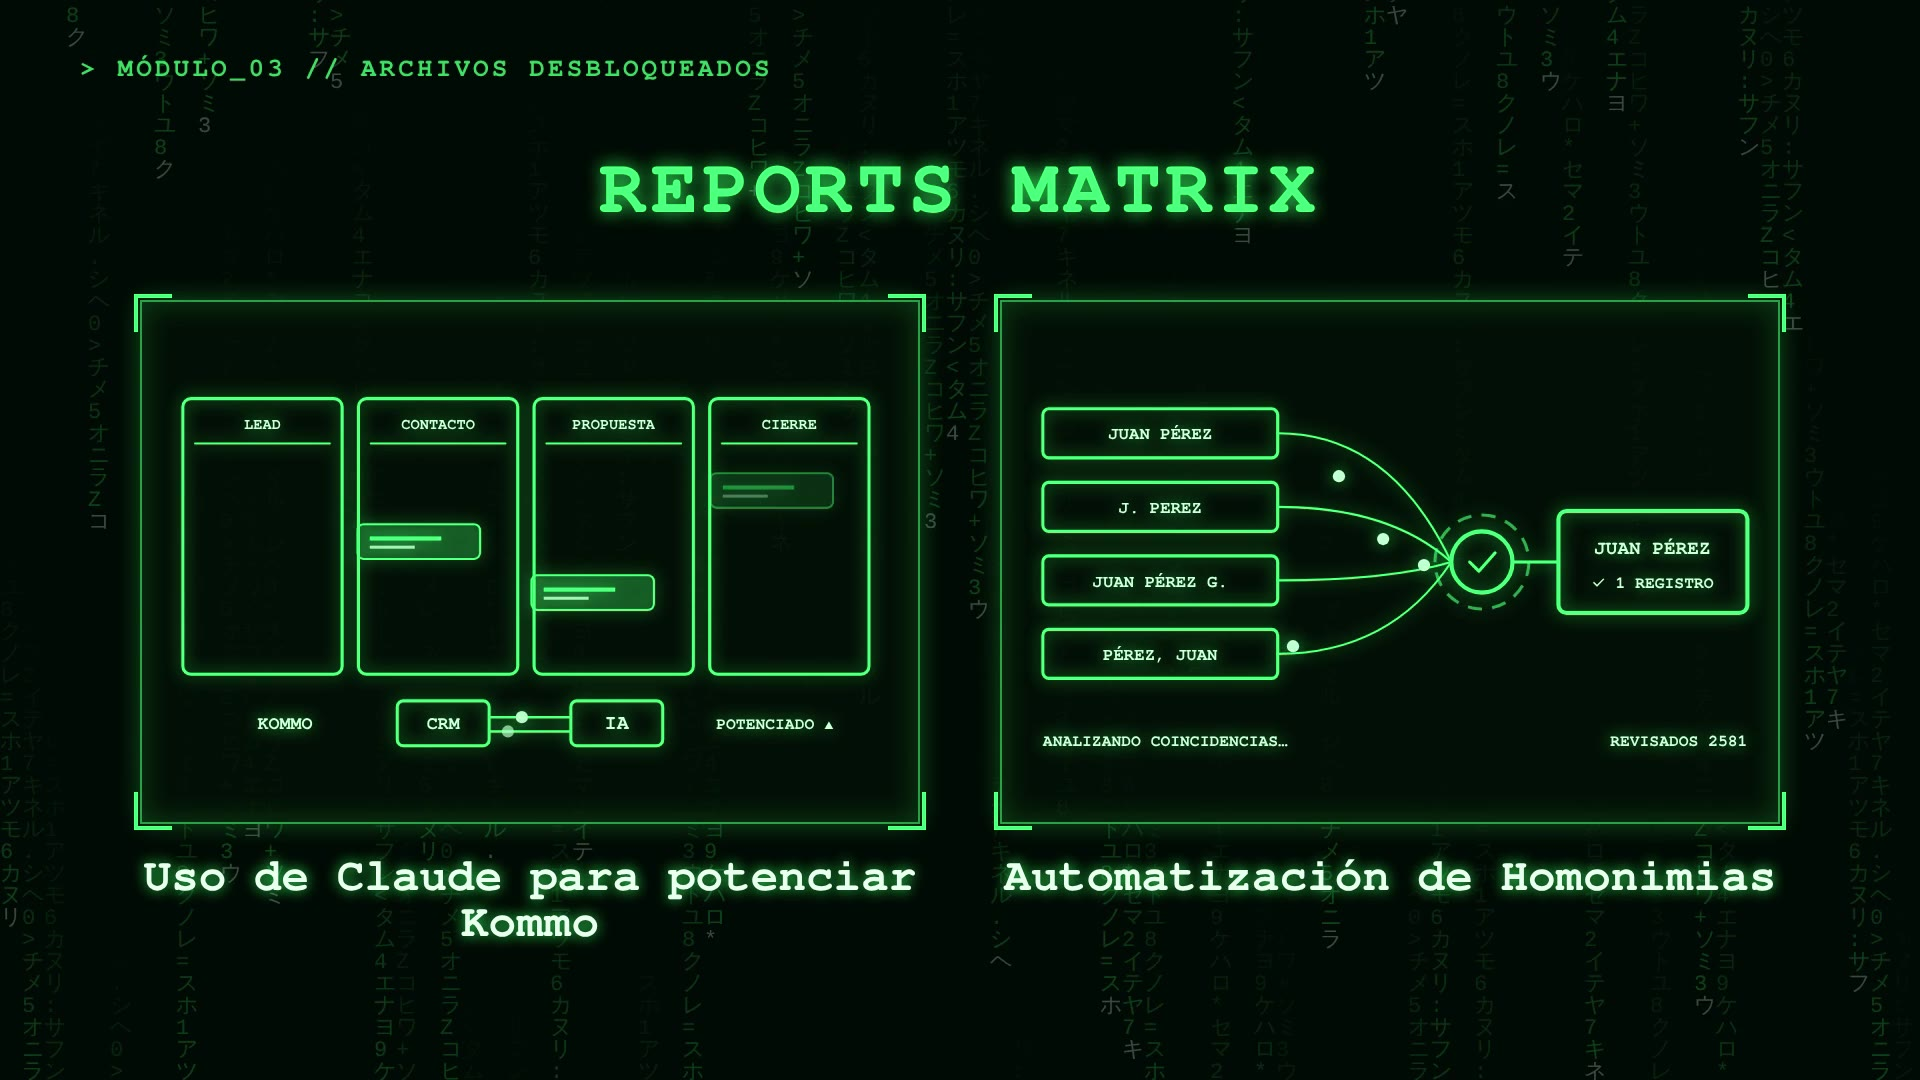
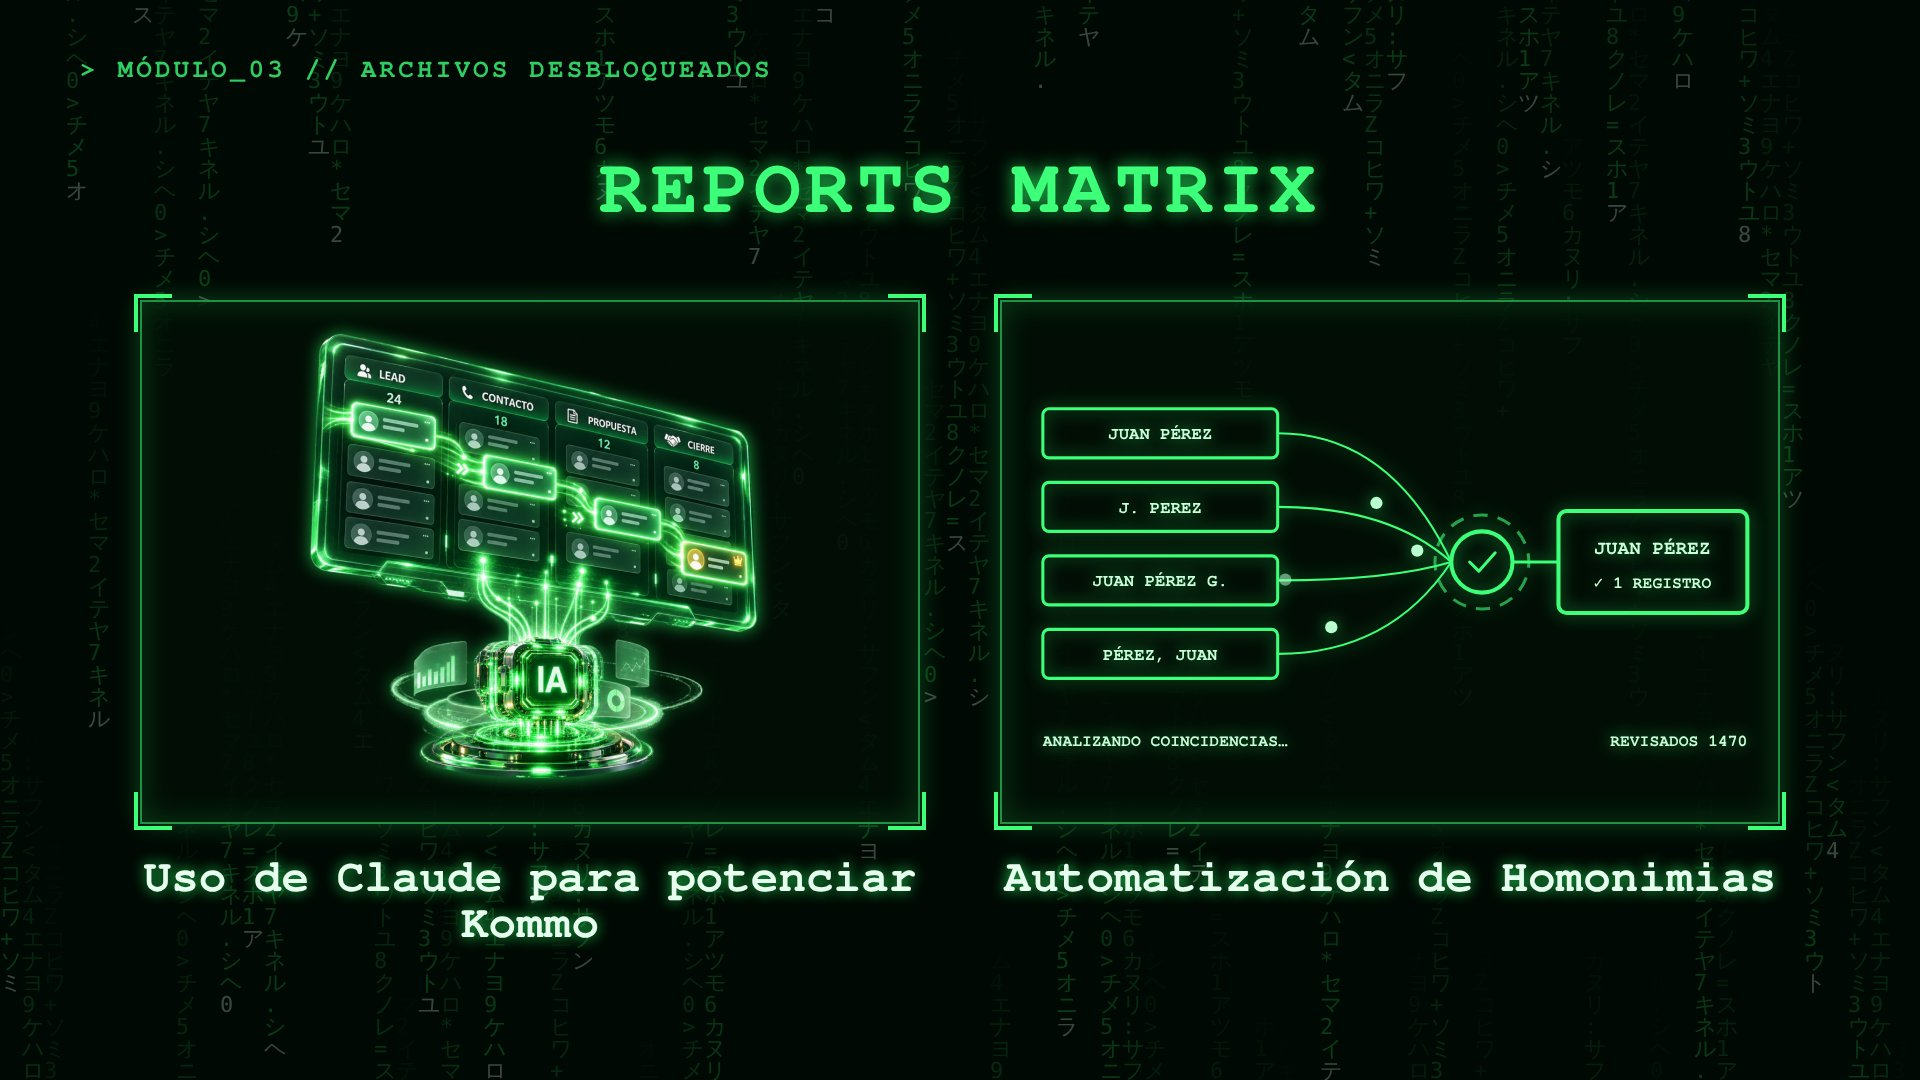
Matrix PPT3: imagen para Claude + Kommo
Claude-Session: https://claude.ai/code/session_01TNESLuQNUwZZ73yDMFRmWn

diff --git a/videos/matrix-2026/compositions/m3-ppt.html b/videos/matrix-2026/compositions/m3-ppt.html
@@ -32,7 +32,7 @@
   <div id="mod" class="abs"></div>
   <div id="h" class="abs"></div>
   <div id="c1" class="abs card">
-    <div class="marco"><svg class="ico" viewBox="0 0 760 440"><rect stroke="#3dff7a" fill="none" stroke-linecap="round" stroke-linejoin="round" pathLength="1" class="tr" stroke-width="3" x="40" y="60" width="156" height="270" rx="8"/><text font-family="Maquina, monospace" fill="#c8ffd8" font-size="15" x="118" y="90" text-anchor="middle" class="fx" data-t="1.8">LEAD</text><path stroke="#3dff7a" fill="none" stroke-linecap="round" stroke-linejoin="round" pathLength="1" class="tr" stroke-width="2" d="M52 104 H184"/><rect stroke="#3dff7a" fill="none" stroke-linecap="round" stroke-linejoin="round" pathLength="1" class="tr" stroke-width="3" x="212" y="60" width="156" height="270" rx="8"/><text font-family="Maquina, monospace" fill="#c8ffd8" font-size="15" x="290" y="90" text-anchor="middle" class="fx" data-t="1.92">CONTACTO</text><path stroke="#3dff7a" fill="none" stroke-linecap="round" stroke-linejoin="round" pathLength="1" class="tr" stroke-width="2" d="M224 104 H356"/><rect stroke="#3dff7a" fill="none" stroke-linecap="round" stroke-linejoin="round" pathLength="1" class="tr" stroke-width="3" x="384" y="60" width="156" height="270" rx="8"/><text font-family="Maquina, monospace" fill="#c8ffd8" font-size="15" x="462" y="90" text-anchor="middle" class="fx" data-t="2.04">PROPUESTA</text><path stroke="#3dff7a" fill="none" stroke-linecap="round" stroke-linejoin="round" pathLength="1" class="tr" stroke-width="2" d="M396 104 H528"/><rect stroke="#3dff7a" fill="none" stroke-linecap="round" stroke-linejoin="round" pathLength="1" class="tr" stroke-width="3" x="556" y="60" width="156" height="270" rx="8"/><text font-family="Maquina, monospace" fill="#c8ffd8" font-size="15" x="634" y="90" text-anchor="middle" class="fx" data-t="2.16">CIERRE</text><path stroke="#3dff7a" fill="none" stroke-linecap="round" stroke-linejoin="round" pathLength="1" class="tr" stroke-width="2" d="M568 104 H700"/><g data-mov="118,150;290,150;462,150;634,150|6|0.0|3.2" opacity="0"><rect x="-60" y="-17" width="120" height="34" rx="6" fill="rgba(61,255,122,.18)" stroke="#3dff7a" stroke-width="2"/><rect x="-48" y="-5" width="70" height="4" fill="#3dff7a"/><rect x="-48" y="4" width="44" height="3" fill="#9fe8b4"/></g><g data-mov="118,200;290,200;462,200;634,200|6|0.33|3.2" opacity="0"><rect x="-60" y="-17" width="120" height="34" rx="6" fill="rgba(61,255,122,.18)" stroke="#3dff7a" stroke-width="2"/><rect x="-48" y="-5" width="70" height="4" fill="#3dff7a"/><rect x="-48" y="4" width="44" height="3" fill="#9fe8b4"/></g><g data-mov="118,250;290,250;462,250;634,250|6|0.66|3.2" opacity="0"><rect x="-60" y="-17" width="120" height="34" rx="6" fill="rgba(61,255,122,.18)" stroke="#3dff7a" stroke-width="2"/><rect x="-48" y="-5" width="70" height="4" fill="#3dff7a"/><rect x="-48" y="4" width="44" height="3" fill="#9fe8b4"/></g><rect stroke="#3dff7a" fill="none" stroke-linecap="round" stroke-linejoin="round" pathLength="1" class="tr" stroke-width="3" x="250" y="356" width="90" height="44" rx="6"/><text font-family="Maquina, monospace" fill="#c8ffd8" font-size="18" x="295" y="384" text-anchor="middle" class="fx" data-t="2.4">CRM</text><rect stroke="#3dff7a" fill="none" stroke-linecap="round" stroke-linejoin="round" pathLength="1" class="tr" stroke-width="3" x="420" y="356" width="90" height="44" rx="6"/><text font-family="Maquina, monospace" fill="#c8ffd8" font-size="20" x="465" y="384" text-anchor="middle" class="fx" data-t="2.6">IA</text><path stroke="#3dff7a" fill="none" stroke-linecap="round" stroke-linejoin="round" pathLength="1" class="tr" stroke-width="2.5" d="M340 372 H420"/><path stroke="#3dff7a" fill="none" stroke-linecap="round" stroke-linejoin="round" pathLength="1" class="tr" stroke-width="2.5" d="M420 386 H340"/><circle class="pul" data-a="340,372,420,372" data-on="3.4" r="6" fill="#b9ffd0" opacity="0"/><circle class="pul" data-a="420,386,340,386" data-on="3.4" r="6" fill="#b9ffd0" opacity="0"/><text font-family="Maquina, monospace" fill="#c8ffd8" font-size="18" x="140" y="384" text-anchor="middle" class="fx" data-t="2.2">KOMMO</text><text font-family="Maquina, monospace" fill="#c8ffd8" font-size="16" x="620" y="384" text-anchor="middle" class="fx" data-t="2.8">POTENCIADO ▲</text></svg><div class="tapa abs"></div><div class="scan abs"></div>
+    <div class="marco"><img class="ico" src="../assets/iconos/kommo.png" style="object-fit:contain;padding:18px;box-sizing:border-box" alt="Uso de Claude para potenciar Kommo"/><div class="tapa abs"></div><div class="scan abs"></div>
       <i class="esq a"></i><i class="esq b"></i><i class="esq c"></i><i class="esq d"></i></div>
     <div class="tit" id="t1"></div>
   </div>
@@ -124,6 +124,7 @@
     tl.fromTo(c + " .tr", { strokeDashoffset: 1 }, { strokeDashoffset: 0, duration: 0.9, stagger: 0.12, ease: "power1.inOut", immediateRender: false }, d + 0.5);
   });
   window.__timelines = window.__timelines || {};
+  tl.fromTo("#c1 .ico", { y: 0 }, { y: -10, duration: 1.6, ease: "sine.inOut", repeat: 5, yoyo: true, immediateRender: false }, 2.0);
   window.__timelines["m3-ppt"] = tl;
   pintar(); tl.seek(0);
   // modo presentación: tras la entrada, la lluvia sigue en bucle
